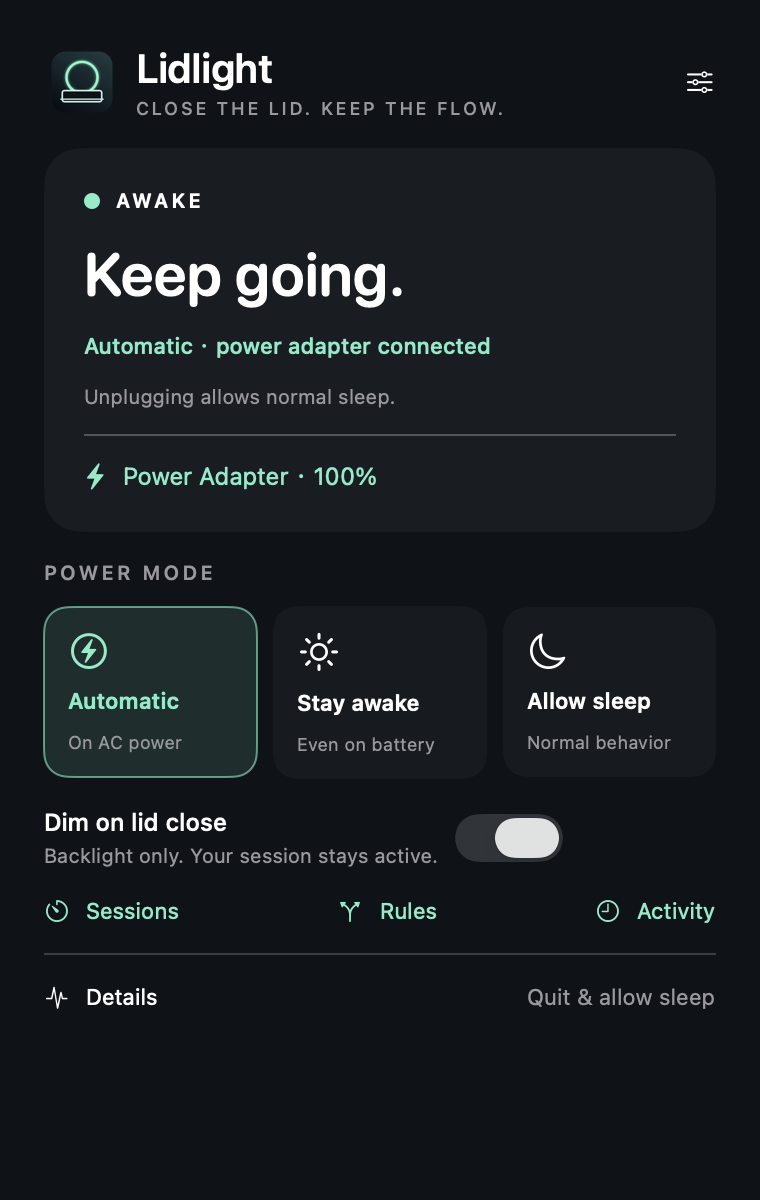
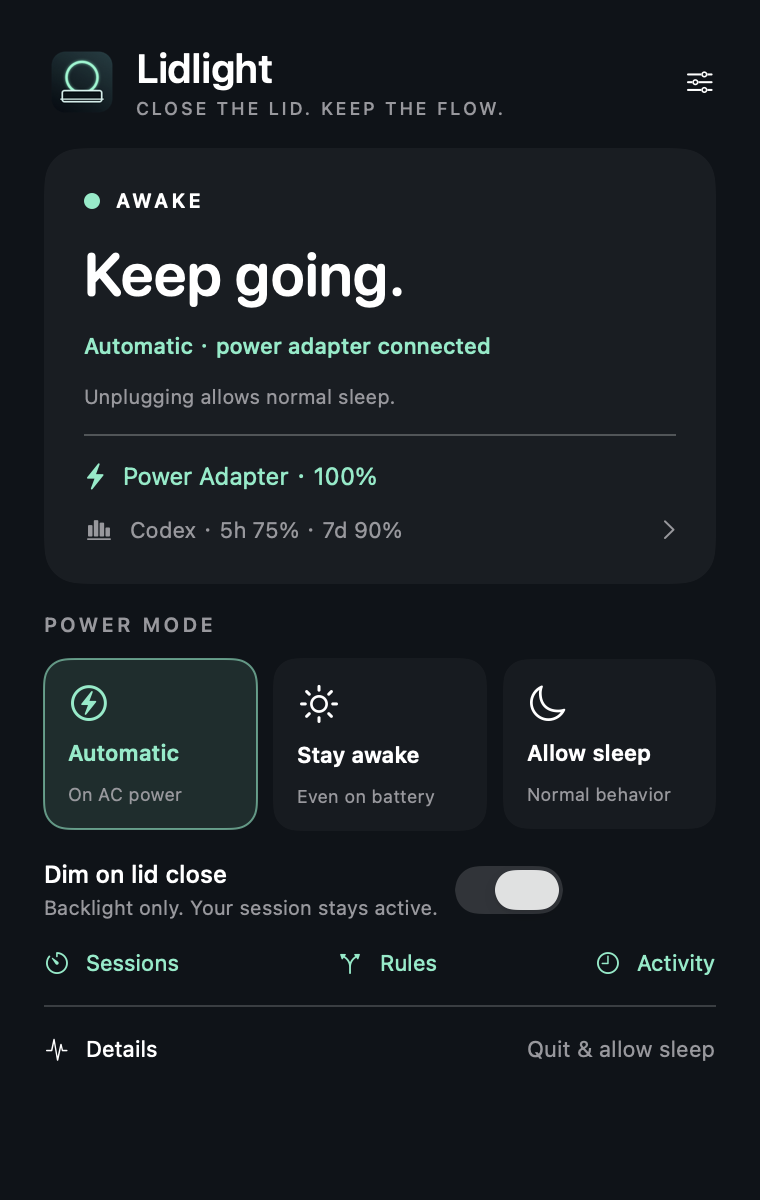
Show Codex account quota through the local app-server interface

diff --git a/Sources/menubar/CodexQuota.swift b/Sources/menubar/CodexQuota.swift
@@ -1,0 +1,122 @@
+import Foundation
+
+struct QuotaWindow: Identifiable, Equatable {
+    let id: String
+    let used: Double
+    let minutes: Int
+    let resetsAt: Date
+    var remaining: Int { Int(max(0, min(100, 100 - used)).rounded()) }
+    var label: String {
+        if minutes == 300 { return "5-hour quota" }
+        if minutes == 10080 { return "Weekly quota" }
+        return minutes % 60 == 0 ? "\(minutes / 60)-hour quota" : "\(minutes)-minute quota"
+    }
+    var compact: String { minutes == 300 ? "5h" : minutes == 10080 ? "7d" : "\(minutes)m" }
+}
+
+enum CodexQuotaError: LocalizedError {
+    case unavailable(String)
+    var errorDescription: String? {
+        switch self { case .unavailable(let message): return message }
+    }
+}
+
+final class CodexQuota: ObservableObject {
+    @Published var windows: [QuotaWindow] = []
+    @Published var updated: Date?
+    @Published var busy = false
+    @Published var message: String?
+    @Published var enabled = UserDefaults.standard.object(forKey: "showCodexQuota") as? Bool ?? true {
+        didSet { UserDefaults.standard.set(enabled, forKey: "showCodexQuota"); if enabled { refresh(force: true) } }
+    }
+    private var lastAttempt = Date.distantPast
+    var summary: String {
+        if !windows.isEmpty {
+            return windows.map { "\($0.compact) \($0.resetsAt <= Date() ? "reset pending" : "\($0.remaining)%")" }.joined(separator: " · ")
+        }
+        return busy ? "Checking…" : "Open usage details"
+    }
+    func refresh(force: Bool = false) {
+        guard enabled, !busy, force || Date().timeIntervalSince(lastAttempt) >= 300 else { return }
+        busy = true; lastAttempt = Date()
+        DispatchQueue.global(qos: .utility).async { [weak self] in
+            let result = Result { try Self.fetch() }
+            DispatchQueue.main.async {
+                guard let self else { return }
+                self.busy = false
+                switch result {
+                case .success(let windows): self.windows = windows; self.updated = Date(); self.message = nil
+                case .failure(let error): self.message = error.localizedDescription
+                }
+            }
+        }
+    }
+    static func parse(_ result: [String: Any]) throws -> [QuotaWindow] {
+        let buckets = result["rateLimitsByLimitId"] as? [String: Any]
+        guard let bucket = (buckets?["codex"] as? [String: Any]) ?? (result["rateLimits"] as? [String: Any]) else {
+            throw CodexQuotaError.unavailable("Codex quota is not available for this account.")
+        }
+        let windows = ["primary", "secondary"].compactMap { key -> QuotaWindow? in
+            guard let window = bucket[key] as? [String: Any],
+                  let used = (window["usedPercent"] as? NSNumber)?.doubleValue, used.isFinite,
+                  let duration = (window["windowDurationMins"] as? NSNumber)?.intValue, duration > 0,
+                  let reset = (window["resetsAt"] as? NSNumber)?.doubleValue, reset.isFinite, reset > 0 else { return nil }
+            return QuotaWindow(id: key, used: used, minutes: duration, resetsAt: Date(timeIntervalSince1970: reset))
+        }
+        guard !windows.isEmpty else { throw CodexQuotaError.unavailable("No quota windows were returned. Sign in to Codex with your ChatGPT account.") }
+        return windows
+    }
+    static func executable() -> String? {
+        let paths = ["/opt/homebrew/bin/codex", "/usr/local/bin/codex", NSHomeDirectory() + "/.local/bin/codex", NSHomeDirectory() + "/.cargo/bin/codex", "/Applications/Codex.app/Contents/Resources/codex", "/Applications/ChatGPT.app/Contents/Resources/codex-cli/CodexCLI.app/Contents/MacOS/codex"]
+        return paths.first { FileManager.default.isExecutableFile(atPath: $0) }
+    }
+    static func fetch() throws -> [QuotaWindow] {
+        guard let executable = executable() else { throw CodexQuotaError.unavailable("Install Codex CLI or the Codex desktop app, then sign in with ChatGPT.") }
+        let process = Process(); let input = Pipe(); let output = Pipe()
+        process.executableURL = URL(fileURLWithPath: executable)
+        process.arguments = ["app-server", "--stdio", "-c", "analytics.enabled=false"]
+        process.currentDirectoryURL = URL(fileURLWithPath: NSHomeDirectory())
+        process.standardInput = input; process.standardOutput = output
+        process.standardError = FileHandle.nullDevice
+        try process.run()
+        _ = fcntl(input.fileHandleForWriting.fileDescriptor, F_SETNOSIGPIPE, 1)
+        let timeout = DispatchWorkItem {
+            if process.isRunning {
+                process.terminate()
+                DispatchQueue.global().asyncAfter(deadline: .now() + 1) { if process.isRunning { kill(process.processIdentifier, SIGKILL) } }
+            }
+        }
+        DispatchQueue.global().asyncAfter(deadline: .now() + 20, execute: timeout)
+        defer {
+            timeout.cancel()
+            try? input.fileHandleForWriting.close()
+            if process.isRunning { process.terminate() }
+            DispatchQueue.global().asyncAfter(deadline: .now() + 1) { if process.isRunning { kill(process.processIdentifier, SIGKILL) } }
+            process.waitUntilExit()
+            try? output.fileHandleForReading.close()
+        }
+        func send(_ message: [String: Any]) throws {
+            guard process.isRunning else { throw CodexQuotaError.unavailable("Codex connection ended. Retry the usage check.") }
+            var data = try JSONSerialization.data(withJSONObject: message); data.append(10)
+            try input.fileHandleForWriting.write(contentsOf: data)
+        }
+        try send(["id": 0, "method": "initialize", "params": ["clientInfo": ["name": "lidlight", "title": "Lidlight", "version": "1.1.1"]]])
+        var buffer = Data()
+        while process.isRunning {
+            let data = output.fileHandleForReading.availableData
+            if data.isEmpty { break }
+            buffer.append(data)
+            guard buffer.count < 2_000_000 else { throw CodexQuotaError.unavailable("Unexpected Codex response size.") }
+            while let newline = buffer.firstIndex(of: 10) {
+                let line = buffer.prefix(upTo: newline); buffer.removeSubrange(...newline)
+                guard let object = try? JSONSerialization.jsonObject(with: line) as? [String: Any], object["method"] == nil, let id = object["id"] as? Int else { continue }
+                if object["error"] != nil { throw CodexQuotaError.unavailable("Codex could not read quota. Check your Codex sign-in and network connection.") }
+                if id == 0 {
+                    try send(["method": "initialized", "params": [:]])
+                    try send(["id": 1, "method": "account/rateLimits/read"])
+                } else if id == 1, let result = object["result"] as? [String: Any] { return try parse(result) }
+            }
+        }
+        throw CodexQuotaError.unavailable("Codex did not return quota before the connection ended. Retry after checking your sign-in and network.")
+    }
+}

diff --git a/Sources/menubar/CodexQuotaView.swift b/Sources/menubar/CodexQuotaView.swift
@@ -1,0 +1,46 @@
+import SwiftUI
+
+struct CodexQuotaView: View {
+    @ObservedObject var quota: CodexQuota
+    private let mint = Color(red: 0.48, green: 0.93, blue: 0.78)
+    var body: some View {
+        VStack(alignment: .leading, spacing: 18) {
+            Text("Codex quota").font(.system(size: 28, weight: .semibold, design: .rounded))
+            Text("Remaining account quota, not a token balance.").font(.system(size: 12)).foregroundColor(.gray)
+            Toggle("Check Codex quota", isOn: $quota.enabled)
+            if quota.enabled {
+                ForEach(quota.windows) { window in
+                    VStack(alignment: .leading, spacing: 10) {
+                        HStack {
+                            Text(window.label).fontWeight(.medium)
+                            Spacer()
+                            Text(window.resetsAt <= Date() ? "Reset pending" : "\(window.remaining)% left").foregroundColor(window.remaining < 20 ? .orange : mint)
+                        }
+                        GeometryReader { geometry in
+                            ZStack(alignment: .leading) {
+                                Capsule().fill(Color.white.opacity(0.08))
+                                Capsule().fill(window.remaining < 20 ? Color.orange : mint)
+                                    .frame(width: geometry.size.width * CGFloat(window.remaining) / 100)
+                            }
+                        }.frame(height: 5).accessibilityLabel("\(window.remaining) percent remaining")
+                        Text("Resets \(window.resetsAt.formatted(Date.FormatStyle(date: .abbreviated, time: .shortened).locale(Locale(identifier: "en_US"))))")
+                            .font(.system(size: 10)).foregroundColor(.gray)
+                    }.padding(16).background(Color.white.opacity(0.045)).cornerRadius(14)
+                }
+                Button { quota.refresh(force: true) } label: { Label(quota.busy ? "Checking…" : "Refresh quota", systemImage: "arrow.clockwise") }
+                    .buttonStyle(.plain).foregroundColor(mint).disabled(quota.busy)
+                if let updated = quota.updated {
+                    Text("Last successful update: \(updated.formatted(Date.FormatStyle(date: .abbreviated, time: .shortened).locale(Locale(identifier: "en_US"))))").font(.system(size: 10)).foregroundColor(.gray)
+                }
+                if let message = quota.message {
+                    Text(message).foregroundColor(.orange).fixedSize(horizontal: false, vertical: true)
+                    if !quota.windows.isEmpty { Text("The readings above are cached.").foregroundColor(.orange) }
+                }
+                Text("Uses your local Codex sign-in. No API key or copied credentials. Checks at most once every five minutes automatically; manual refresh is available.")
+                    .font(.system(size: 11)).foregroundColor(.gray).fixedSize(horizontal: false, vertical: true)
+                Text("This meter covers Codex account limits, not every ChatGPT model's message limit.")
+                    .font(.system(size: 10)).foregroundColor(.gray).fixedSize(horizontal: false, vertical: true)
+            }
+        }.font(.system(size: 12)).frame(maxWidth: .infinity, alignment: .leading)
+    }
+}

diff --git a/Sources/menubar/main.swift b/Sources/menubar/main.swift
@@ -48,6 +48,7 @@ func daemonRunning() -> Bool {
 final class AppDelegate: NSObject, NSApplicationDelegate, UNUserNotificationCenterDelegate {
     let dashboard = DashboardState()
     let features = Features()
+    let quota = CodexQuota()
     let popover = NSPopover()
     let statusItem = NSStatusBar.system.statusItem(withLength: NSStatusItem.variableLength)
     let lidScreen = LidScreen()
@@ -72,7 +73,7 @@ final class AppDelegate: NSObject, NSApplicationDelegate, UNUserNotificationCent
         popover.contentSize = NSSize(width: 380, height: 600)
         popover.appearance = NSAppearance(named: .darkAqua)
         popover.contentViewController = NSHostingController(rootView: Dashboard(
-            state: dashboard, features: features,
+            state: dashboard, features: features, quota: quota,
             select: { [weak self] index in
                 self?.features.select(index)
                 self?.refreshSoon()
@@ -112,7 +113,7 @@ final class AppDelegate: NSObject, NSApplicationDelegate, UNUserNotificationCent
         }, context)?.takeRetainedValue() {
             CFRunLoopAddSource(CFRunLoopGetMain(), source, .commonModes)
         }
-        timer = Timer.scheduledTimer(withTimeInterval: 5, repeats: true) { [weak self] _ in guard let self else { return }; if !self.userRequestedQuit { self.features.tick() }; self.refresh() }
+        timer = Timer.scheduledTimer(withTimeInterval: 5, repeats: true) { [weak self] _ in guard let self else { return }; if !self.userRequestedQuit { self.features.tick() }; self.quota.refresh(); self.refresh() }
         lidTimer = Timer.scheduledTimer(withTimeInterval: 1, repeats: true) { [weak self] _ in
             guard let modeOn = rootDomainFlag("SleepDisabled"),
                   let lidClosed = rootDomainFlag("AppleClamshellState") else { return }
@@ -130,6 +131,7 @@ final class AppDelegate: NSObject, NSApplicationDelegate, UNUserNotificationCent
         features.restoreScreen = { [weak self] in self?.lidScreen.forceOn() ?? false }
         features.didChange = { [weak self] in self?.refresh() }
         features.start()
+        quota.refresh()
         refresh()
         if CommandLine.arguments.contains("--health-check") { toggleDashboard(); dashboard.details = true }
     }

diff --git a/Sources/menubar/Dashboard.swift b/Sources/menubar/Dashboard.swift
@@ -15,6 +15,7 @@ final class DashboardState: ObservableObject {
 struct Dashboard: View {
     @ObservedObject var state: DashboardState
     @ObservedObject var features: Features
+    @ObservedObject var quota: CodexQuota
     let select: (Int) -> Void
     let toggleDim: () -> Void
     let copyDiagnostics: () -> Void
@@ -35,7 +36,9 @@ struct Dashboard: View {
         }
         ScrollView(.vertical, showsIndicators: true) {
         VStack(alignment: .leading, spacing: 14) {
-            if features.page != "home" {
+            if features.page == "codex" {
+                CodexQuotaView(quota: quota)
+            } else if features.page != "home" {
                 FeaturePages(features: features)
             } else if state.details {
                 diagnosticsContent
@@ -60,6 +63,15 @@ struct Dashboard: View {
                 Text(features.nextAction).font(.system(size: 10)).foregroundColor(.gray).fixedSize(horizontal: false, vertical: true)
                 Divider().overlay(Color.white.opacity(0.08))
                 Label(state.power, systemImage: "bolt.fill").font(.system(size: 12)).foregroundColor(mint)
+                Button { features.page = "codex"; quota.refresh() } label: {
+                    HStack {
+                        Image(systemName: "chart.bar.xaxis")
+                        Text(quota.enabled ? "Codex · " + quota.summary : "Codex quota · Off")
+                        if quota.message != nil { Image(systemName: "exclamationmark.circle") }
+                        Spacer()
+                        Image(systemName: "chevron.right")
+                    }.font(.system(size: 11)).foregroundColor(.gray)
+                }.buttonStyle(.plain)
             }.padding(20).frame(maxWidth: .infinity, alignment: .leading).background(Color.white.opacity(0.045)).cornerRadius(18)
             VStack(alignment: .leading, spacing: 10) {
                 Text("POWER MODE").font(.system(size: 10, weight: .semibold)).tracking(1.5).foregroundColor(.gray)

diff --git a/Tests/CodexQuotaTests.swift b/Tests/CodexQuotaTests.swift
@@ -1,0 +1,18 @@
+import Foundation
+@main struct CodexQuotaTests {
+    static func main() throws {
+        let legacy: [String: Any] = ["rateLimits": ["primary": ["usedPercent": 65, "windowDurationMins": 300, "resetsAt": 2000000000], "secondary": NSNull()]]
+        let windows = try CodexQuota.parse(legacy)
+        precondition(windows.count == 1 && windows[0].remaining == 35 && windows[0].label == "5-hour quota")
+        let multiple: [String: Any] = ["rateLimitsByLimitId": ["codex": ["primary": ["usedPercent": 10.0, "windowDurationMins": 10080, "resetsAt": 2000000000.0]]], "rateLimits": ["primary": ["usedPercent": 99, "windowDurationMins": 300, "resetsAt": 2000000000]]]
+        let selected = try CodexQuota.parse(multiple)
+        precondition(selected[0].remaining == 90)
+        precondition(selected[0].label == "Weekly quota")
+        do { _ = try CodexQuota.parse([:]); preconditionFailure("Missing quota must not become zero usage") } catch {}
+        do { _ = try CodexQuota.parse(["rateLimits": ["primary": NSNull()]]); preconditionFailure("Null quota must be unavailable") } catch {}
+        print("PASS: remaining percentages, multi-bucket priority, dynamic windows and missing quota")
+        if CommandLine.arguments.contains("--live") {
+            for window in try CodexQuota.fetch() { print("\(window.label): \(window.remaining)% remaining") }
+        }
+    }
+}

diff --git a/scripts/preview-ui.swift b/scripts/preview-ui.swift
@@ -17,7 +17,10 @@ import SwiftUI
         features.reason = "Automatic · power adapter connected"
         features.nextAction = "Unplugging allows normal sleep."
         if let index = CommandLine.arguments.firstIndex(of: "--page"), CommandLine.arguments.count > index + 1 { features.page = CommandLine.arguments[index + 1] }
-        let view = NSHostingView(rootView: Dashboard(state: state, features: features, select: { _ in }, toggleDim: {}, copyDiagnostics: {}, quit: {}))
+        let quota = CodexQuota()
+        quota.windows = [QuotaWindow(id: "primary", used: 25, minutes: 300, resetsAt: Date().addingTimeInterval(3600)), QuotaWindow(id: "secondary", used: 10, minutes: 10080, resetsAt: Date().addingTimeInterval(86400))]
+        quota.updated = Date()
+        let view = NSHostingView(rootView: Dashboard(state: state, features: features, quota: quota, select: { _ in }, toggleDim: {}, copyDiagnostics: {}, quit: {}))
         view.frame = NSRect(origin: .zero, size: view.fittingSize)
         let window = NSWindow(contentRect: view.frame, styleMask: [.borderless], backing: .buffered, defer: false)
         window.contentView = view

diff --git a/README.md b/README.md
@@ -22,6 +22,10 @@ A focused macOS menu bar app that keeps your MacBook awake with the lid closed.
 
 App/process/schedule/display rules require Lidlight to stay running. Timed deadlines and power safety run in the root service. No account, cloud sync, telemetry or automatic updater.
 
+## Codex account quota
+
+The optional Codex card shows remaining quota percentages and reset times. It uses the installed Codex CLI/app's documented `account/rateLimits/read` interface with your existing ChatGPT sign-in. It does not copy credentials, request an API key, create inference turns or send usage to a Lidlight server. Automatic checks run every five minutes; failures retain clearly labelled cached readings. This is Codex quota, not an exact remaining-token balance or all ChatGPT model limits. Requires a locally installed and signed-in Codex CLI or supported desktop app.
+
 ## Rules and safety
 
 The selected manual mode is the base. App, display and schedule rules temporarily request awake mode; when all matching rules end, the base returns. Manual Allow sleep pauses these rules. Timed, one-shot, presentation and watched-process sessions take priority. Battery and AC-only protections always take precedence.
